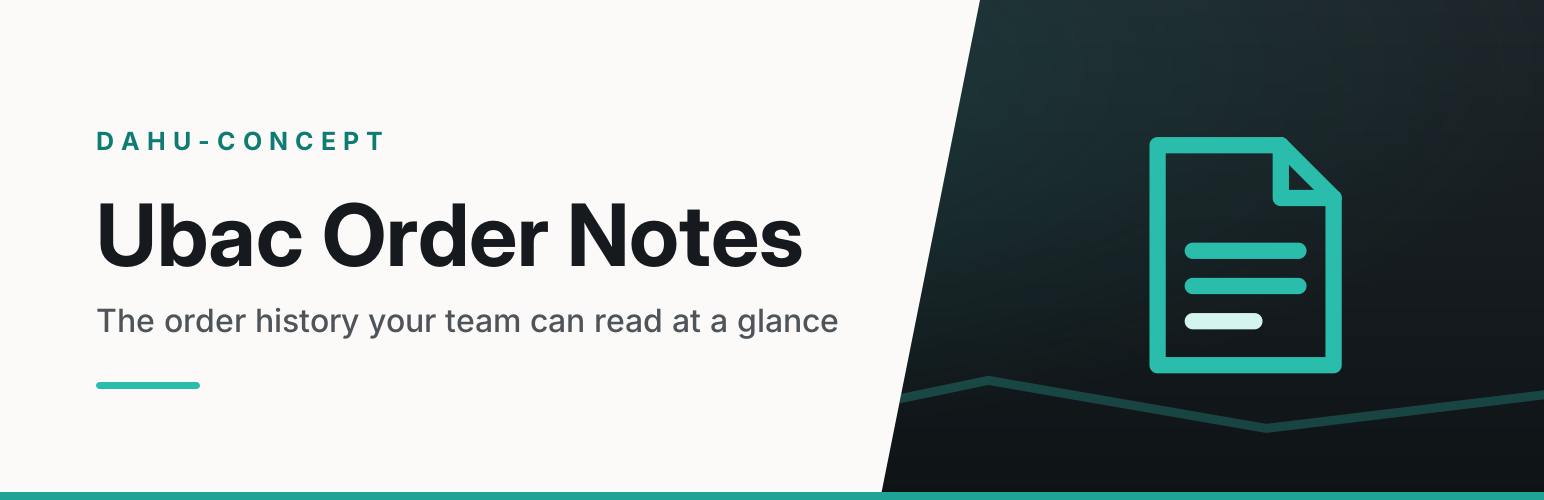
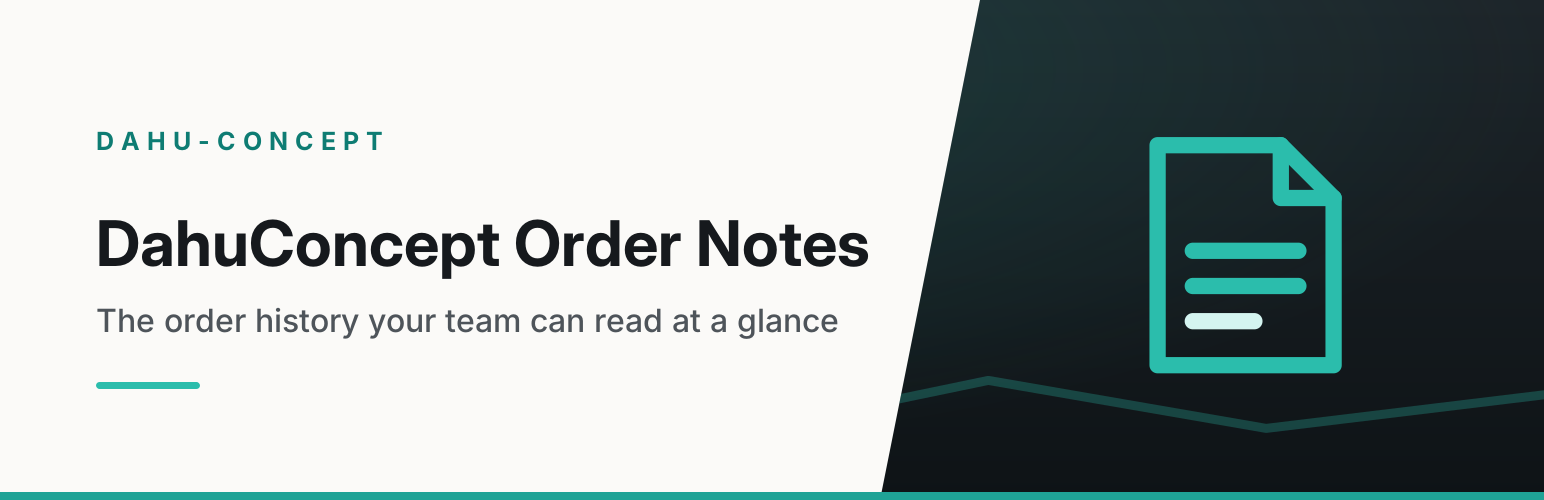
Become DahuConcept: slug, display name and text domain
The directory refused "Dahu" as a leading name because the term is shared,
then refused "Ubac" because it belongs to someone else. Both refusals ask
the same question — can you prove this term is yours? — and the only
answer that holds is the registered company name, which is also the
wordpress.org account that submits these plugins. Measured on TMview in
exact match: dahuconcept, zero records, against 252 for ubac and 122 for
dahu. All fifteen target slugs are free in the directory.

The slug is now exactly what the display name derives, for every one of
the fifteen. Twelve of them had a shorter slug than their name produced,
which meant twelve manual permalink requests and twelve chances for
another round trip. There are none left.

Changed: display name, slug, text domain, the language files and their
Project-Id-Version, the readme title, the artwork, and the folder.

NOT changed, deliberately: class and function prefixes, option names,
admin page slugs, asset handles, CSS classes, REST namespaces, the Action
Scheduler group and the "source" value this plugin writes into Stripe
metadata. Those are internal or persisted identifiers; the directory's
guideline 17 does not reach them, and renaming them would have broken
in-flight payments and live stylesheets for nothing. The text domain was
replaced by TOKEN POSITION rather than by string, because the old slug is
also an option name and an admin page slug.
[…]

Changed region(s): [[0.0622, 0.39, 0.5596, 0.57]]

diff --git a/dahuconcept-order-notes.php b/dahuconcept-order-notes.php
@@ -1,13 +1,13 @@
 <?php
 /**
- * Plugin Name:       Ubac Order Notes
+ * Plugin Name:       DahuConcept Order Notes
  * Description:       Visually separates the order notes a human actually wrote from the ones WooCommerce and its extensions generate automatically.
  * Version:           2.1.0
  * Author:            Hugo Vial-Jaime
  * Author URI:        https://dahu-concept.fr
  * License:           MIT
  * License URI:       https://opensource.org/licenses/MIT
- * Text Domain:       ubac-notes
+ * Text Domain:       dahuconcept-order-notes
  * Domain Path:       /languages
  * Requires at least: 6.0
  * Requires PHP:      7.4
@@ -90,7 +90,7 @@ function ubac_notes_missing_wc_notice() {
 
 	printf(
 		'<div class="notice notice-error"><p>%s</p></div>',
-		esc_html__( 'Ubac Order Notes requires WooCommerce to be installed and active.', 'ubac-notes' )
+		esc_html__( 'DahuConcept Order Notes requires WooCommerce to be installed and active.', 'dahuconcept-order-notes' )
 	);
 }
 
@@ -105,7 +105,7 @@ add_filter(
 		$settings = sprintf(
 			'<a href="%s">%s</a>',
 			esc_url( admin_url( 'admin.php?page=' . UBAC_NOTES_SETTINGS_PAGE ) ),
-			esc_html__( 'Settings', 'ubac-notes' )
+			esc_html__( 'Settings', 'dahuconcept-order-notes' )
 		);
 
 		array_unshift( $links, $settings );
@@ -127,18 +127,18 @@ add_filter(
 		return array(
 			sprintf(
 				/* translators: %s: plugin version number. */
-				esc_html__( 'Version %s', 'ubac-notes' ),
+				esc_html__( 'Version %s', 'dahuconcept-order-notes' ),
 				esc_html( $header['Version'] )
 			),
 			sprintf(
 				'<a href="%s" target="_blank" rel="noopener">%s</a>',
 				esc_url( 'https://dahu-concept.fr' ),
-				esc_html__( 'By Hugo Vial-Jaime — Dahu-Concept', 'ubac-notes' )
+				esc_html__( 'By Hugo Vial-Jaime — Dahu-Concept', 'dahuconcept-order-notes' )
 			),
 			sprintf(
 				'<a href="%s" target="_blank" rel="noopener">%s</a>',
 				esc_url( 'https://dahu-concept.fr' ),
-				esc_html__( 'Plugin website', 'ubac-notes' )
+				esc_html__( 'Plugin website', 'dahuconcept-order-notes' )
 			),
 		);
 	},
@@ -173,8 +173,8 @@ add_action(
 		Ubac_Welcome::register(
 			array(
 				'slug'       => 'ubac-notes',
-				'name'       => __( 'Order notes', 'ubac-notes' ),
-				'tagline'    => __( 'Makes the notes a human wrote stand out from the ones the shop generated.', 'ubac-notes' ),
+				'name'       => __( 'Order notes', 'dahuconcept-order-notes' ),
+				'tagline'    => __( 'Makes the notes a human wrote stand out from the ones the shop generated.', 'dahuconcept-order-notes' ),
 				'file'       => UBAC_NOTES_FILE,
 				'version'    => UBAC_NOTES_VERSION,
 				'textdomain' => 'ubac-notes',
@@ -193,24 +193,24 @@ add_action(
 				 * no text domain of its own.
 				 */
 				'strings'    => array(
-					'next'   => __( 'Next', 'ubac-notes' ),
-					'done'   => __( 'Done', 'ubac-notes' ),
-					'skip'   => __( 'Skip', 'ubac-notes' ),
-					'of'     => __( 'of', 'ubac-notes' ),
-					'denied' => __( 'You are not allowed to view this page.', 'ubac-notes' ),
+					'next'   => __( 'Next', 'dahuconcept-order-notes' ),
+					'done'   => __( 'Done', 'dahuconcept-order-notes' ),
+					'skip'   => __( 'Skip', 'dahuconcept-order-notes' ),
+					'of'     => __( 'of', 'dahuconcept-order-notes' ),
+					'denied' => __( 'You are not allowed to view this page.', 'dahuconcept-order-notes' ),
 				),
 				'points'     => array(
 				array(
-					'title' => __( 'Yours first', 'ubac-notes' ),
-					'text'  => __( 'Private notes somebody typed are highlighted.', 'ubac-notes' ),
+					'title' => __( 'Yours first', 'dahuconcept-order-notes' ),
+					'text'  => __( 'Private notes somebody typed are highlighted.', 'dahuconcept-order-notes' ),
 				),
 				array(
-					'title' => __( 'Customer notes marked', 'ubac-notes' ),
-					'text'  => __( 'The ones the customer can see are told apart at a glance.', 'ubac-notes' ),
+					'title' => __( 'Customer notes marked', 'dahuconcept-order-notes' ),
+					'text'  => __( 'The ones the customer can see are told apart at a glance.', 'dahuconcept-order-notes' ),
 				),
 				array(
-					'title' => __( 'Your colours', 'ubac-notes' ),
-					'text'  => __( 'Both are yours to set.', 'ubac-notes' ),
+					'title' => __( 'Your colours', 'dahuconcept-order-notes' ),
+					'text'  => __( 'Both are yours to set.', 'dahuconcept-order-notes' ),
 				),
 				),
 
@@ -223,18 +223,18 @@ add_action(
 				'tour'        => array(
 					array(
 						'selector' => 'input[name="ubac_notes_options[enabled]"]',
-						'title'    => __( 'Switch it on or off', 'ubac-notes' ),
-						'text'     => __( 'Hand-written private notes are highlighted while this is ticked.', 'ubac-notes' ),
+						'title'    => __( 'Switch it on or off', 'dahuconcept-order-notes' ),
+						'text'     => __( 'Hand-written private notes are highlighted while this is ticked.', 'dahuconcept-order-notes' ),
 					),
 					array(
 						'selector' => '#ubac-notes-handwritten-bg',
-						'title'    => __( 'Pick your colours', 'ubac-notes' ),
-						'text'     => __( 'One colour for your notes, one for the customer notes header.', 'ubac-notes' ),
+						'title'    => __( 'Pick your colours', 'dahuconcept-order-notes' ),
+						'text'     => __( 'One colour for your notes, one for the customer notes header.', 'dahuconcept-order-notes' ),
 					),
 					array(
 						'selector' => '#ubac-notes-custom-prefixes',
-						'title'    => __( 'Teach it your plugins', 'ubac-notes' ),
-						'text'     => __( 'One phrase per line: notes starting with it count as automatic.', 'ubac-notes' ),
+						'title'    => __( 'Teach it your plugins', 'dahuconcept-order-notes' ),
+						'text'     => __( 'One phrase per line: notes starting with it count as automatic.', 'dahuconcept-order-notes' ),
 					),
 				),
 			)

diff --git a/includes/class-ubac-notes-settings.php b/includes/class-ubac-notes-settings.php
@@ -105,8 +105,8 @@ class Ubac_Notes_Settings {
 	public static function register_menu() {
 		add_submenu_page(
 			'woocommerce',
-			__( 'Order notes', 'ubac-notes' ),
-			__( 'Order notes', 'ubac-notes' ),
+			__( 'Order notes', 'dahuconcept-order-notes' ),
+			__( 'Order notes', 'dahuconcept-order-notes' ),
 			self::CAPABILITY,
 			UBAC_NOTES_SETTINGS_PAGE,
 			array( __CLASS__, 'render_page' )
@@ -219,15 +219,15 @@ class Ubac_Notes_Settings {
 	public static function render_page() {
 
 		if ( ! current_user_can( self::CAPABILITY ) ) {
-			wp_die( esc_html__( 'You are not allowed to access this page.', 'ubac-notes' ) );
+			wp_die( esc_html__( 'You are not allowed to access this page.', 'dahuconcept-order-notes' ) );
 		}
 
 		$options = self::get();
 		?>
 		<div class="wrap ubac-ui">
 			<div class="ubac-ui-head">
-				<h1 class="ubac-ui-head__title"><?php esc_html_e( 'Order notes', 'ubac-notes' ); ?></h1>
-				<p class="ubac-ui-head__sub"><?php esc_html_e( 'Makes the notes a human wrote stand out from the ones the shop generated.', 'ubac-notes' ); ?></p>
+				<h1 class="ubac-ui-head__title"><?php esc_html_e( 'Order notes', 'dahuconcept-order-notes' ); ?></h1>
+				<p class="ubac-ui-head__sub"><?php esc_html_e( 'Makes the notes a human wrote stand out from the ones the shop generated.', 'dahuconcept-order-notes' ); ?></p>
 			</div>
 
 			<hr class="wp-header-end">
@@ -239,21 +239,21 @@ class Ubac_Notes_Settings {
 				<table class="form-table" role="presentation">
 					<tbody>
 						<tr>
-							<th scope="row"><?php esc_html_e( 'Highlighting', 'ubac-notes' ); ?></th>
+							<th scope="row"><?php esc_html_e( 'Highlighting', 'dahuconcept-order-notes' ); ?></th>
 							<td>
 								<label>
 									<input type="checkbox"
 										name="<?php echo esc_attr( self::OPTION ); ?>[enabled]"
 										value="1"
 										<?php checked( $options['enabled'], 1 ); ?> />
-									<?php esc_html_e( 'Highlight hand-written private notes', 'ubac-notes' ); ?>
+									<?php esc_html_e( 'Highlight hand-written private notes', 'dahuconcept-order-notes' ); ?>
 								</label>
 							</td>
 						</tr>
 						<tr>
 							<th scope="row">
 								<label for="ubac-notes-handwritten-bg">
-									<?php esc_html_e( 'Hand-written note colour', 'ubac-notes' ); ?>
+									<?php esc_html_e( 'Hand-written note colour', 'dahuconcept-order-notes' ); ?>
 								</label>
 							</th>
 							<td>
@@ -266,7 +266,7 @@ class Ubac_Notes_Settings {
 						<tr>
 							<th scope="row">
 								<label for="ubac-notes-customer-header-bg">
-									<?php esc_html_e( 'Customer note header colour', 'ubac-notes' ); ?>
+									<?php esc_html_e( 'Customer note header colour', 'dahuconcept-order-notes' ); ?>
 								</label>
 							</th>
 							<td>
@@ -279,7 +279,7 @@ class Ubac_Notes_Settings {
 						<tr>
 							<th scope="row">
 								<label for="ubac-notes-custom-prefixes">
-									<?php esc_html_e( 'Additional automatic notes', 'ubac-notes' ); ?>
+									<?php esc_html_e( 'Additional automatic notes', 'dahuconcept-order-notes' ); ?>
 								</label>
 							</th>
 							<td>
@@ -288,7 +288,7 @@ class Ubac_Notes_Settings {
 									rows="6"
 									name="<?php echo esc_attr( self::OPTION ); ?>[custom_prefixes]"><?php echo esc_textarea( $options['custom_prefixes'] ); ?></textarea>
 								<p class="description">
-									<?php esc_html_e( 'One per line. A note starting with one of these phrases is treated as automatic.', 'ubac-notes' ); ?>
+									<?php esc_html_e( 'One per line. A note starting with one of these phrases is treated as automatic.', 'dahuconcept-order-notes' ); ?>
 								</p>
 							</td>
 						</tr>

diff --git a/uninstall.php b/uninstall.php
@@ -15,8 +15,15 @@ delete_option( 'ubac_notes_options' );
 // would never greet anybody again — the screen and the guided tour staying
 // silent for good, with nothing on screen to explain why.
 delete_option( 'ubac_welcome_seen_ubac-notes' );
+// Les memes clefs sous le nouveau slug : elle est construite au runtime
+// a partir du slug, donc elle a change avec lui. Sans ces trois lignes,
+// une mise a jour depuis la version Ubac laisse des orphelines que plus
+// rien ne nomme.
+delete_option( 'ubac_welcome_seen_dahuconcept-order-notes' );
 delete_option( 'ubac_welcome_pending_ubac-notes' );
+delete_option( 'ubac_welcome_pending_dahuconcept-order-notes' );
 delete_option( 'ubac_welcome_tour_ubac-notes' );
+delete_option( 'ubac_welcome_tour_dahuconcept-order-notes' );
 
 if ( is_multisite() ) {
 	$ubac_notes_site_ids = get_sites(
@@ -30,8 +37,11 @@ if ( is_multisite() ) {
 		switch_to_blog( $ubac_notes_site_id );
 		delete_option( 'ubac_notes_options' );
 		delete_option( 'ubac_welcome_seen_ubac-notes' );
+		delete_option( 'ubac_welcome_seen_dahuconcept-order-notes' );
 		delete_option( 'ubac_welcome_pending_ubac-notes' );
+		delete_option( 'ubac_welcome_pending_dahuconcept-order-notes' );
 		delete_option( 'ubac_welcome_tour_ubac-notes' );
+		delete_option( 'ubac_welcome_tour_dahuconcept-order-notes' );
 		restore_current_blog();
 	}
 }

diff --git a/README.md b/README.md
@@ -1,4 +1,4 @@
-# Ubac Order Notes
+# DahuConcept Order Notes
 
 Makes the WooCommerce order notes a person actually wrote stand out from the
 ones WooCommerce and its extensions generate on their own.
@@ -18,7 +18,7 @@ member is logged in*. Changing an order status from the admin screen produces a
 note attributed to that person, indistinguishable in the markup from a note they
 typed themselves.
 
-Ubac Order Notes identifies those, and leaves the hand-written ones highlighted.
+DahuConcept Order Notes identifies those, and leaves the hand-written ones highlighted.
 
 ## How detection works
 
@@ -63,7 +63,7 @@ non-breaking spaces, which French typography puts before every colon.
 1. Download the latest release, or clone this repository into
    `wp-content/plugins/`.
 2. Activate the plugin through the Plugins screen.
-3. Optionally adjust the colours under **WooCommerce → Ubac Order Notes**.
+3. Optionally adjust the colours under **WooCommerce → DahuConcept Order Notes**.
 
 Highlighting is on by default.
 

diff --git a/README.fr.md b/README.fr.md
@@ -1,4 +1,4 @@
-# Ubac Order Notes
+# DahuConcept Order Notes
 
 Fait ressortir les notes de commande WooCommerce qu'une personne a réellement
 écrites, parmi celles que WooCommerce et ses extensions ajoutent d'elles-mêmes.
@@ -22,7 +22,7 @@ pas distinguer, c'est la troisième catégorie : les notes produites par du code
 commande depuis l'administration produit une note attribuée à cette personne,
 indiscernable dans le balisage d'une note qu'elle aurait tapée elle-même.
 
-Ubac Order Notes repère celles-là, et laisse en évidence celles écrites à la
+DahuConcept Order Notes repère celles-là, et laisse en évidence celles écrites à la
 main.
 
 ## Comment la détection fonctionne
